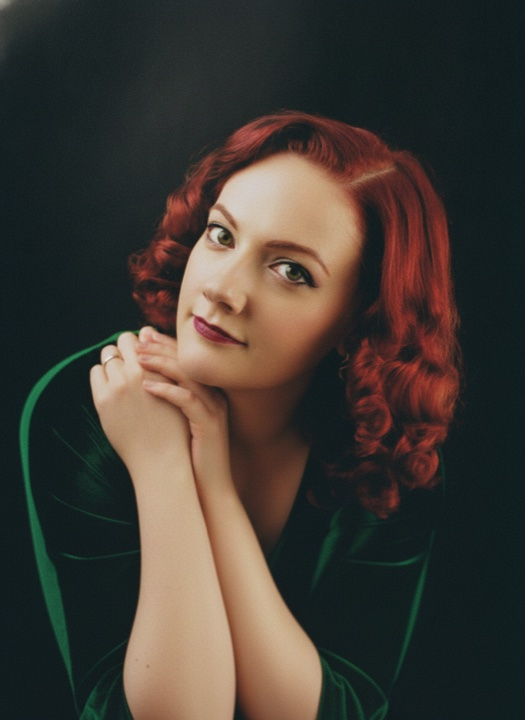
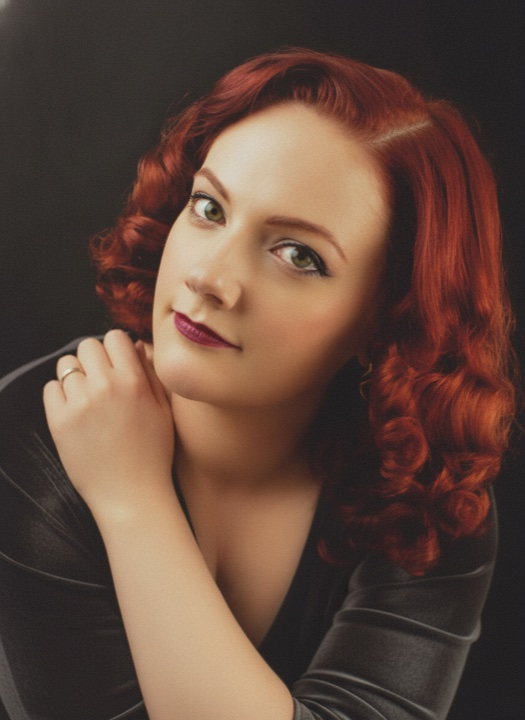
cards: fix Leota green rim (regenerated), add subtle name-glow + sequential star light-up impulse on reveal/hover

diff --git a/advisors.html b/advisors.html
@@ -171,6 +171,16 @@
   .spec-ico{width:13px;height:13px;margin-right:7px;flex:none}
   .adv-rate{font-size:13px;color:var(--muted);display:flex;align-items:center;gap:8px}
   .adv-stars{color:var(--gold);letter-spacing:2px;font-size:12px}
+  .adv-stars i{display:inline-block;font-style:normal}
+  @keyframes nameGlow{0%,100%{text-shadow:none}45%{text-shadow:0 0 15px rgba(233,207,154,.5)}}
+  @keyframes starPop{0%,100%{transform:scale(1)}42%{transform:scale(1.3);text-shadow:0 0 8px rgba(233,207,154,.95)}}
+  .adv-card.in .adv-name,.adv-card:hover .adv-name{animation:nameGlow 1.5s var(--ease)}
+  .adv-card.in .adv-stars i,.adv-card:hover .adv-stars i{animation:starPop .85s var(--ease)}
+  .adv-card .adv-stars i:nth-child(2){animation-delay:.09s}
+  .adv-card .adv-stars i:nth-child(3){animation-delay:.18s}
+  .adv-card .adv-stars i:nth-child(4){animation-delay:.27s}
+  .adv-card .adv-stars i:nth-child(5){animation-delay:.36s}
+  @media(prefers-reduced-motion:reduce){.adv-card .adv-name,.adv-card .adv-stars i{animation:none!important}}
   .adv-meta{display:flex;justify-content:space-between;align-items:center;margin-top:18px;padding-top:16px;border-top:1px solid var(--faint)}
   .price .reg{color:var(--muted);font-size:12px;opacity:.7;margin-right:4px}
   .rate{font-family:var(--serif);font-size:18px} .per{font-size:12px;color:var(--muted)}
@@ -1840,6 +1850,11 @@
   addEventListener('scroll',()=>hdr.classList.toggle('scrolled',scrollY>40));
   const io=new IntersectionObserver(es=>es.forEach(e=>{if(e.isIntersecting){e.target.classList.add('in');io.unobserve(e.target)}}),{threshold:.06});
   document.querySelectorAll('.reveal').forEach(el=>io.observe(el));
+  // split rating into individual stars (for the sequential light-up impulse)
+  document.querySelectorAll('.adv-stars').forEach(el=>{
+    const n=(el.textContent.match(/★/g)||[]).length||5; el.textContent='';
+    for(let i=0;i<n;i++){const s=document.createElement('i');s.textContent='★';el.appendChild(s);}
+  });
   const reduceM=matchMedia('(prefers-reduced-motion:reduce)').matches;
   document.querySelectorAll('.starscape').forEach(sc=>{
     const big=sc.classList.contains('cosmos-stars');const n=big?(reduceM?30:44):28;

diff --git a/index.html b/index.html
@@ -287,6 +287,16 @@
   .adv-spec{font-size:12px;letter-spacing:.06em;text-transform:uppercase;color:var(--gold);margin-bottom:16px}
   .adv-rate{font-size:13px;color:var(--muted);display:flex;align-items:center;gap:8px}
   .adv-stars{color:var(--gold);letter-spacing:2px;font-size:12px}
+  .adv-stars i{display:inline-block;font-style:normal}
+  @keyframes nameGlow{0%,100%{text-shadow:none}45%{text-shadow:0 0 15px rgba(233,207,154,.5)}}
+  @keyframes starPop{0%,100%{transform:scale(1)}42%{transform:scale(1.3);text-shadow:0 0 8px rgba(233,207,154,.95)}}
+  .adv-card.in .adv-name,.adv-card:hover .adv-name{animation:nameGlow 1.5s var(--ease)}
+  .adv-card.in .adv-stars i,.adv-card:hover .adv-stars i{animation:starPop .85s var(--ease)}
+  .adv-card .adv-stars i:nth-child(2){animation-delay:.09s}
+  .adv-card .adv-stars i:nth-child(3){animation-delay:.18s}
+  .adv-card .adv-stars i:nth-child(4){animation-delay:.27s}
+  .adv-card .adv-stars i:nth-child(5){animation-delay:.36s}
+  @media(prefers-reduced-motion:reduce){.adv-card .adv-name,.adv-card .adv-stars i{animation:none!important}}
   .adv-meta{display:flex;justify-content:space-between;align-items:center;margin-top:22px;padding-top:18px;border-top:1px solid var(--faint)}
   .adv-link{font-size:11px;letter-spacing:.16em;text-transform:uppercase;color:var(--ivory);text-decoration:none;display:flex;align-items:center;gap:7px;transition:gap .4s,color .4s}
   .adv-link:hover{color:var(--gold);gap:12px}
@@ -834,6 +844,11 @@
   })();
   const io=new IntersectionObserver(es=>es.forEach(e=>{if(e.isIntersecting){e.target.classList.add('in');io.unobserve(e.target)}}),{threshold:.16});
   document.querySelectorAll('.reveal:not(.in)').forEach(el=>io.observe(el));
+  // split rating into individual stars (for the sequential light-up impulse)
+  document.querySelectorAll('.adv-stars').forEach(el=>{
+    const n=(el.textContent.match(/★/g)||[]).length||5; el.textContent='';
+    for(let i=0;i<n;i++){const s=document.createElement('i');s.textContent='★';el.appendChild(s);}
+  });
 
   // ===== hero energy: slow 3D spiral of light rising into soft wisps =====
   (function(){